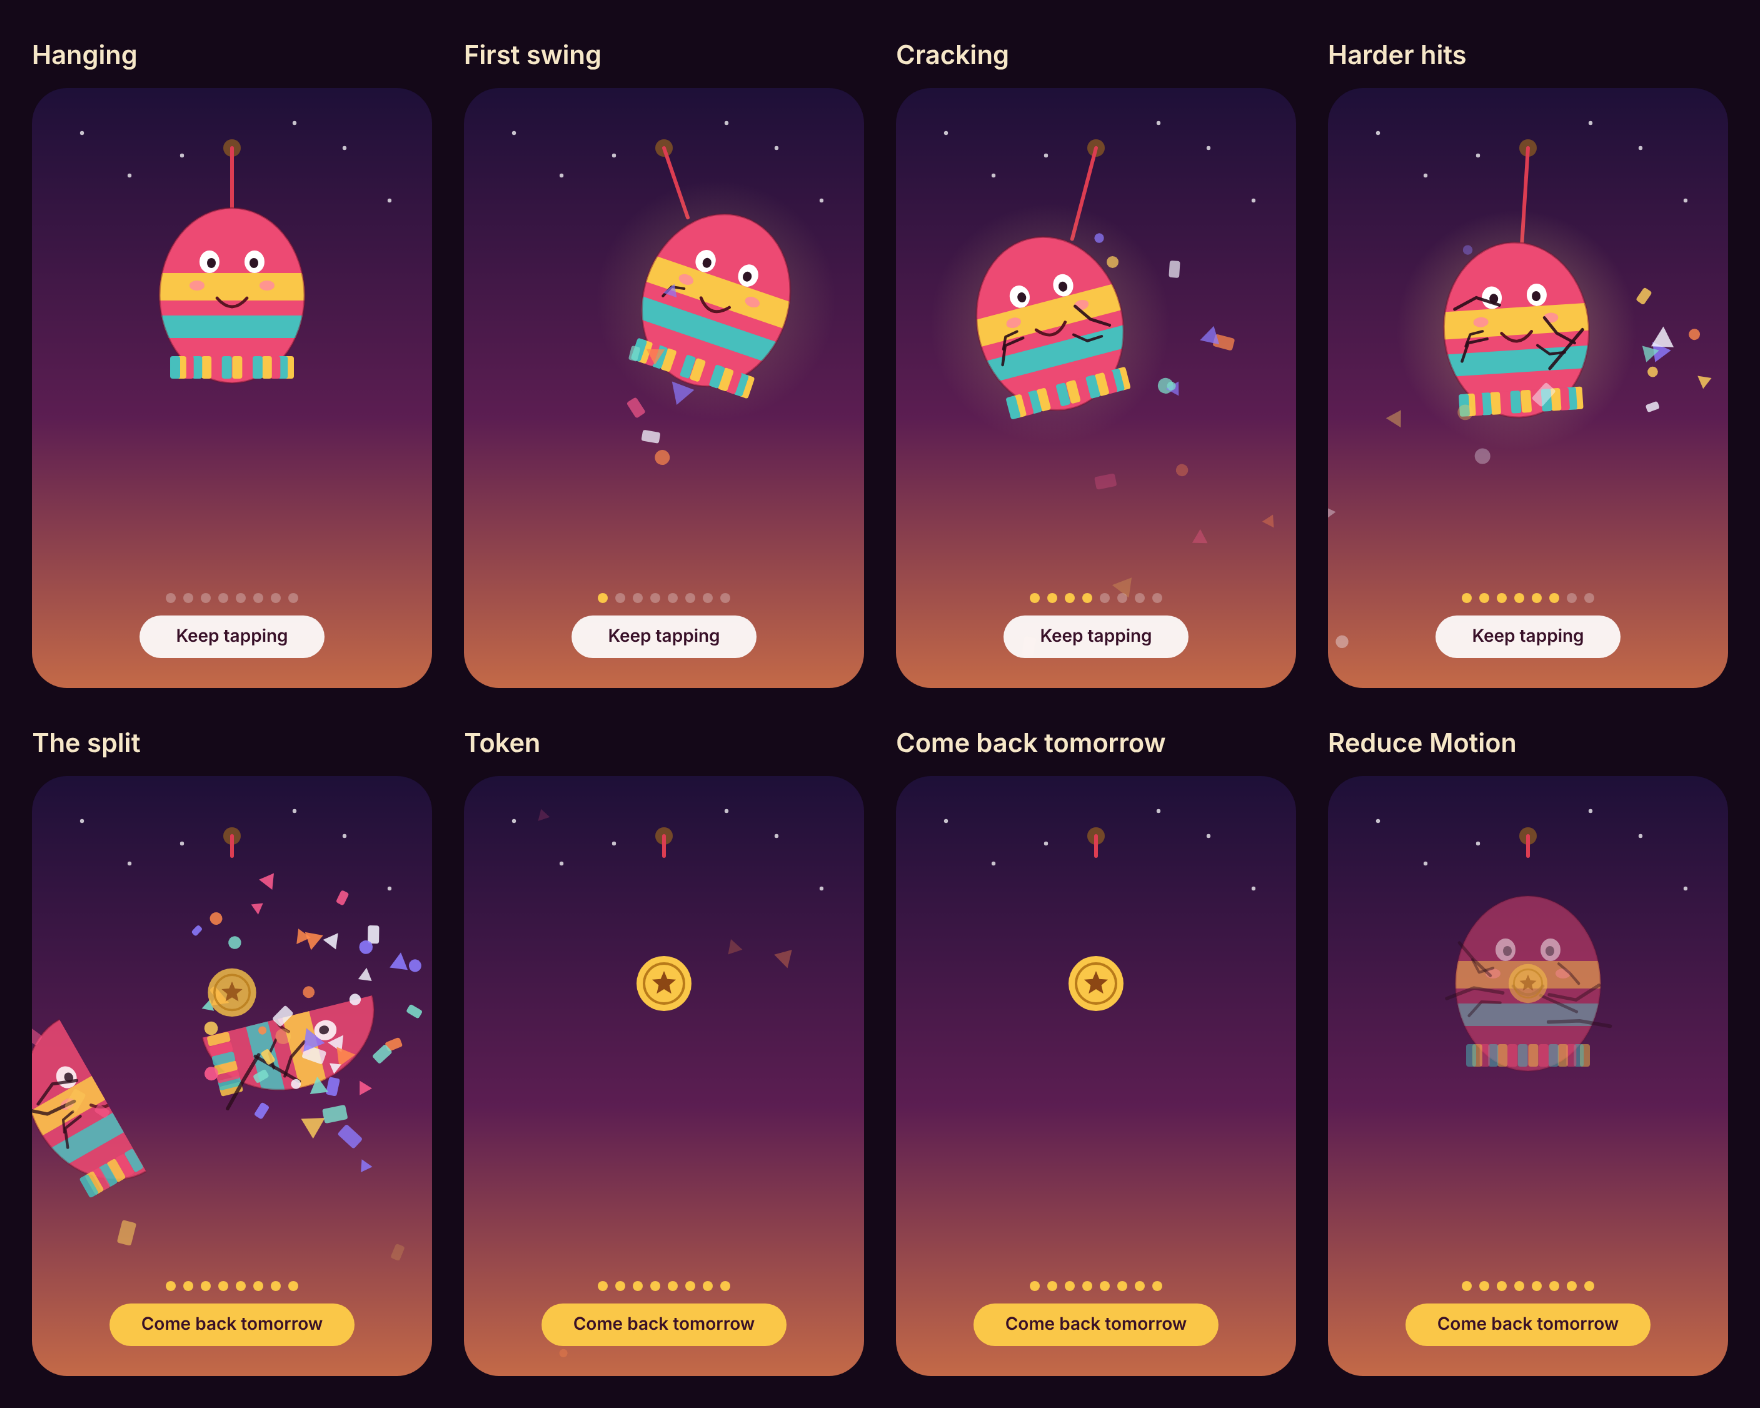
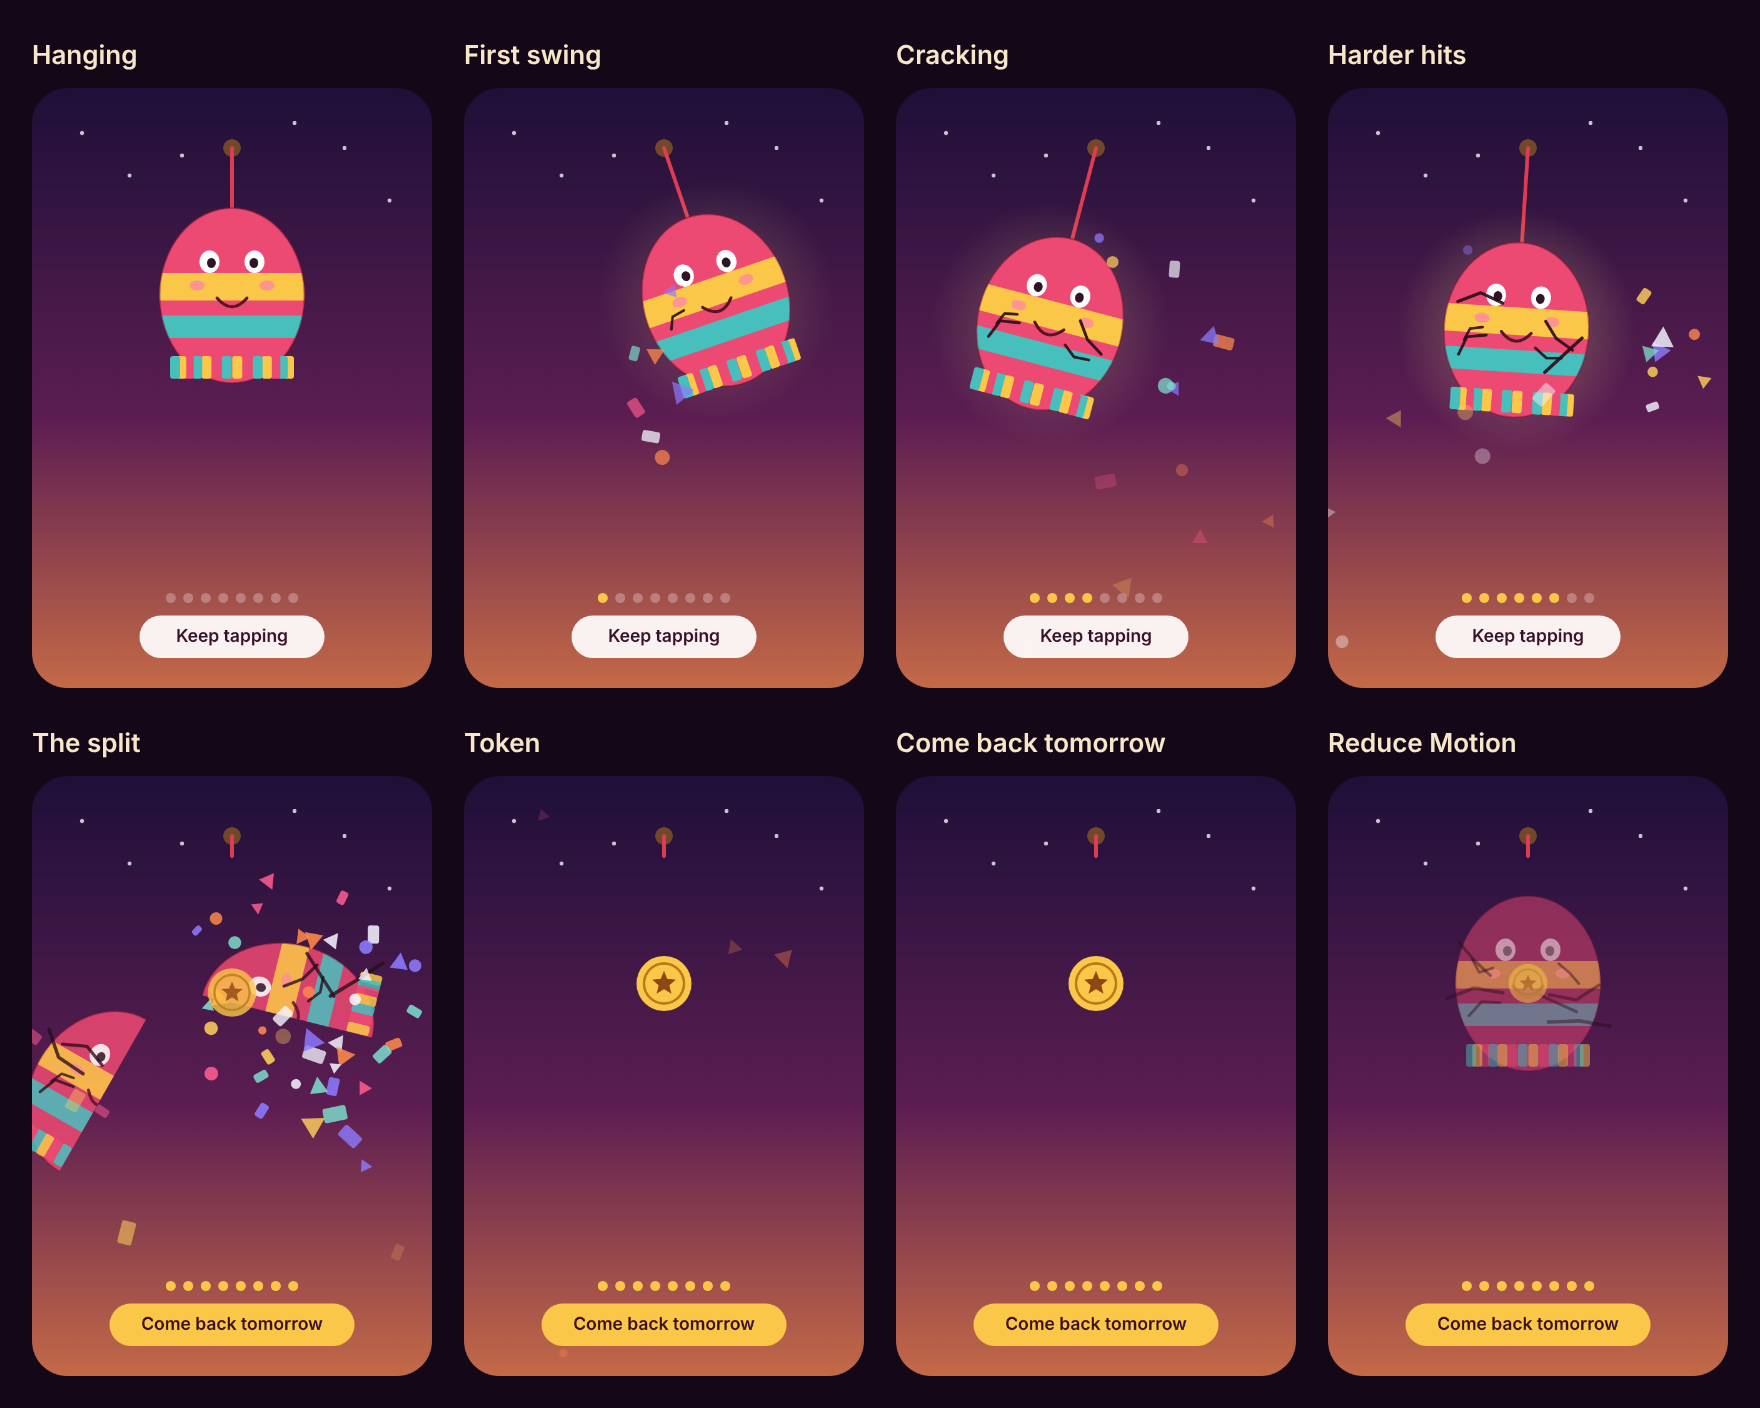
Draw the piñata in the pendulum's frame so the ribbon stays on the crown.
Positive canvas and SwiftUI rotations are clockwise. The model turns the other way, so the body is drawn at the negated angle.

diff --git a/Sources/PinataReward/PinataReward.swift b/Sources/PinataReward/PinataReward.swift
@@ -161,7 +161,9 @@ public struct PinataReward: View {
         ctx.drawLayer { layer in
             layer.opacity = opacity
             layer.translateBy(x: center.x, y: center.y)
-            layer.rotate(by: .radians(angle))
+            // SwiftUI rotates clockwise for a positive angle. The pendulum frame is the other way:
+            // local (x, y) maps to (x cos + y sin, −x sin + y cos), so the crown stays on the ribbon.
+            layer.rotate(by: .radians(-angle))
             switch clip {
             case .both: break
             case .left:

diff --git a/webports/pinata.html b/webports/pinata.html
@@ -87,7 +87,9 @@ function drawBody(c, model, center, angle, clip, opacity) {
   c.save();
   c.globalAlpha = opacity;
   c.translate(center.x, center.y);
-  c.rotate(angle);
+  // Canvas rotates clockwise for a positive angle. The pendulum frame is the other way,
+  // so the painted crown stays on the ribbon endpoint from pendulum.world.
+  c.rotate(-angle);
   c.beginPath();
   if (clip === "left") c.rect(-220, -220, 220, 440);
   else if (clip === "right") c.rect(0, -220, 220, 440);
